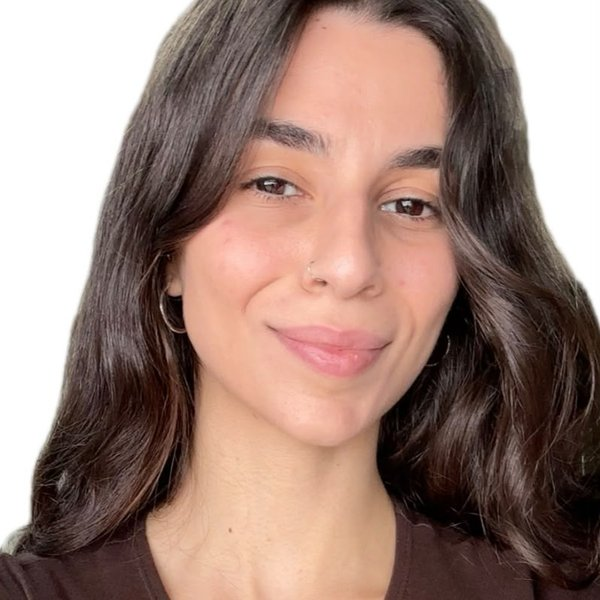
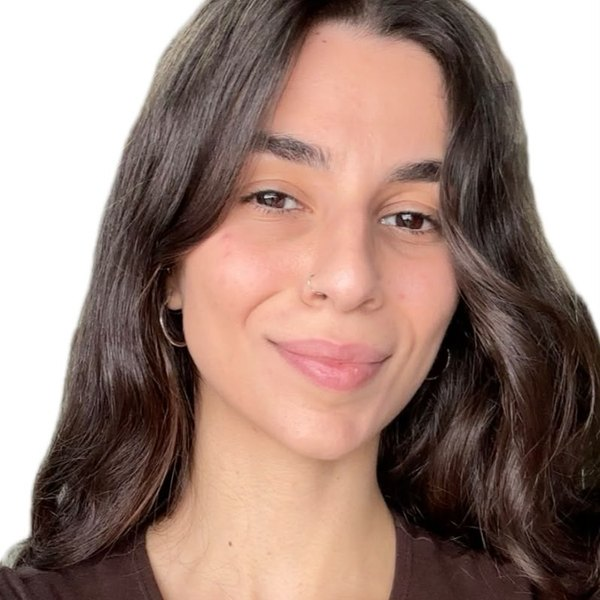
Recrop portraits, and turn Former Students into Interns
- Recrop Ofir, Dima and Maysam with face detection so the head is centred
  and nothing is cut, replacing the fixed-offset square crops. Ofir and Dima
  now come from local files instead of the WordPress site.
- Mahmoud is a current intern on the NEMO consortium project, not a former
  student: moved, retitled, and given a locally cropped portrait.
- Add Roman Muchnyk, intern on NEMO. No photo available yet, so his card
  carries initials in the avatar.
- Rename the Former Students section (and its stylesheet selector) to
  Interns, since it now holds both of them.
- Search index: update Mahmoud, add Roman, and add Maysam and Premsagar,
  who had been missing since they were added to the page.

Claude-Session: https://claude.ai/code/session_0158FYh1hgJmxL4cxLKjhWgB

diff --git a/assets/js/main.js b/assets/js/main.js
@@ -483,9 +483,10 @@ const createStaticSearchChunks = () => {
       pageTitle: 'People',
       title: 'People',
       text: `
-        Meet the AMSG Team. Principal investigator, research staff, current students, former students.
+        Meet the AMSG Team. Principal investigator, research staff, current students, interns.
         Nicolas Wainstein, Ilana Zilberger, Michael Sotman, Doron Orenstein, Jeries Mattar, Dima Saleh,
-        Sharon Ponarovsky, Yousef Safadi, Ofir Glick, Yinon Geva, Daniel Komenetsky, Mahmoud Mahajna.
+        Sharon Ponarovsky, Yousef Safadi, Ofir Glick, Yinon Geva, Daniel Komenetsky, Maysam Simaan,
+        Premsagar Dhote, Mahmoud Mahajna, Roman Muchnyk.
       `,
       kind: 'page'
     },
@@ -570,7 +571,28 @@ const createStaticSearchChunks = () => {
       pageHref: 'people.html',
       pageTitle: 'People',
       title: 'Mahmoud Mahajna',
-      text: 'Graduate Student. Embedded systems, neuromorphic hardware, and integrated circuits.',
+      text: 'Intern. NEMO consortium project; embedded systems, neuromorphic hardware, and integrated circuits.',
+      kind: 'detail'
+    },
+    {
+      pageHref: 'people.html',
+      pageTitle: 'People',
+      title: 'Roman Muchnyk',
+      text: 'Intern. NEMO consortium project.',
+      kind: 'detail'
+    },
+    {
+      pageHref: 'people.html',
+      pageTitle: 'People',
+      title: 'Maysam Simaan',
+      text: 'Graduate Student. Cryogenic hardware and time-domain in-memory computing.',
+      kind: 'detail'
+    },
+    {
+      pageHref: 'people.html',
+      pageTitle: 'People',
+      title: 'Premsagar Dhote',
+      text: 'Exploratory Research Student. FeFET-based non-volatile memories and high-speed interconnects.',
       kind: 'detail'
     },
     {
@@ -1339,7 +1361,7 @@ if (teamCarousel) {
     {
       name: 'Dima Saleh',
       role: 'Graduate Student',
-      image: 'https://ams.net.technion.ac.il/files/2024/09/dima-768x768.jpg'
+      image: 'assets/img/people/dima_web.jpg'
     },
     {
       name: 'Sharon Ponarovsky',
@@ -1354,7 +1376,7 @@ if (teamCarousel) {
     {
       name: 'Ofir Glick',
       role: 'Graduate Student',
-      image: 'https://ams.net.technion.ac.il/files/2025/03/%D7%AA%D7%9E%D7%95%D7%A0%D7%AA-%D7%A4%D7%A0%D7%99%D7%9D-581x1024.png'
+      image: 'assets/img/people/ofir_web.jpg'
     },
     {
       name: 'Yinon Geva',
@@ -1716,7 +1738,7 @@ if (personModal) {
     ofir: {
       name: 'Ofir Glick',
       role: 'Graduate Researcher',
-      img: 'https://ams.net.technion.ac.il/files/2025/03/%D7%AA%D7%9E%D7%95%D7%A0%D7%AA-%D7%A4%D7%A0%D7%99%D7%9D-581x1024.png',
+      img: 'assets/img/people/ofir_web.jpg',
       bio: 'Ofir received his B.Sc. in Electrical Engineering from the Technion in 2024 and is currently an M.Sc. student working with Prof. Ariel Cohen and Dr. Nicolás Wainstein. He was previously an analog circuit designer at Cisco focusing on high-speed, low-power ADCs with digital calibration and mixed-signal verification.',
       contact: {
         Email: 'ofirglick@campus.technion.ac.il',
@@ -1773,9 +1795,9 @@ if (personModal) {
     },
     mahmoud: {
       name: 'Mahmoud Mahajna',
-      role: 'Graduate Researcher',
-      img: 'https://ams.net.technion.ac.il/files/2025/03/pic.jpeg',
-      bio: 'Mahmoud is a M.Sc research student from the University of Politecnico di Torino in Italy, majoring in Electronics Engineering - Embedded Systems. He received his B.Sc degree in Electronics and Communication Engineering from Politecnico di Torino. He conducted a 6-month internship at The National Metrology Institute of Italy (INRiM) on the topic of Superconducting Single Photon Detectors. His current research interests are Computer Architecture, Neuromorphic Computing, Integrated Circuits and VLSI Systems.',
+      role: 'Intern',
+      img: 'assets/img/people/mahmoud_web.jpg',
+      bio: 'Mahmoud is a M.Sc research student from the University of Politecnico di Torino in Italy, majoring in Electronics Engineering - Embedded Systems. He received his B.Sc degree in Electronics and Communication Engineering from Politecnico di Torino. He conducted a 6-month internship at The National Metrology Institute of Italy (INRiM) on the topic of Superconducting Single Photon Detectors. His current research interests are Computer Architecture, Neuromorphic Computing, Integrated Circuits and VLSI Systems. He is currently an intern at AMSG, working on the NEMO consortium project.',
       contact: {
         Email: 'm-mahmoud@campus.technion.ac.il',
         Office: '406 Zisapel, Andrew and Erna Faculty of Electrical and Computer Engineering, Technion',
@@ -1790,10 +1812,28 @@ if (personModal) {
         'Bridges embedded systems research with circuit design' 
       ]
     },
+    roman: {
+      name: 'Roman Muchnyk',
+      role: 'Intern',
+      img: 'assets/img/logo_asmg_2025.png',
+      bio: 'Roman is an intern at AMSG, working on the NEMO consortium project.',
+      contact: {
+        Email: '',
+        Office: '406 Zisapel, Andrew and Erna Faculty of Electrical and Computer Engineering, Technion',
+        Phone: ''
+      },
+      links: {
+        scholar: 'https://scholar.google.com',
+        linkedin: 'https://www.linkedin.com'
+      },
+      details: [
+        'Works on the NEMO consortium project'
+      ]
+    },
     dima: {
       name: 'Dima Ali Saleh',
       role: 'Graduate Researcher',
-      img: 'https://ams.net.technion.ac.il/files/2024/09/dima-768x768.jpg',
+      img: 'assets/img/people/dima_web.jpg',
       bio: 'Dima received her B.Sc. in Electrical Engineering from the Technion and is currently a graduate student at AMSG, specializing in time-domain in-memory computing (TD‑IMC). Her research interests include advancements in mixed-signal integrated circuit design.',
       contact: {
         Email: 'dima.al@campus.technion.ac.il',

diff --git a/people.html b/people.html
@@ -105,10 +105,10 @@
         <h2 class="section-title reveal">Current Students</h2>
         <div class="grid grid-3">
           <article class="card people-card reveal delay-1" data-person-id="jeries"><div class="avatar"><img src="https://ams.net.technion.ac.il/files/2023/06/jeries_photo-1701x2048.jpg" alt="Jeries Mattar" loading="lazy" /></div><h3>Jeries Mattar</h3><div class="role">PhD Student</div><p class="person-meta">AI hardware and time-domain in-memory computing.</p></article>
-          <article class="card people-card reveal delay-2" data-person-id="dima"><div class="avatar"><img src="https://ams.net.technion.ac.il/files/2024/09/dima-768x768.jpg" alt="Dima Saleh" loading="lazy" /></div><h3>Dima Saleh</h3><div class="role">Graduate Student</div><p class="person-meta">AI hardware and time-domain in-memory computing</p></article>
+          <article class="card people-card reveal delay-2" data-person-id="dima"><div class="avatar"><img src="assets/img/people/dima_web.jpg" alt="Dima Saleh" loading="lazy" /></div><h3>Dima Saleh</h3><div class="role">Graduate Student</div><p class="person-meta">AI hardware and time-domain in-memory computing</p></article>
           <article class="card people-card reveal delay-3" data-person-id="sharon"><div class="avatar"><img src="https://ams.net.technion.ac.il/files/2025/06/Photo673-2048x2048.jpg" alt="Sharon Ponarovsky" loading="lazy" /></div><h3>Sharon Ponarovsky</h3><div class="role">Graduate Student</div><p class="person-meta">Neuromorphic computing.</p></article>
           <article class="card people-card reveal delay-4" data-person-id="yousef"><div class="avatar"><img src="https://ams.net.technion.ac.il/files/2025/03/yousef.jpg" alt="Yousef Safadi" loading="lazy" /></div><h3>Yousef Safadi</h3><div class="role">Graduate Student</div><p class="person-meta">Ultra-dense and energy-efficient die-to-die links.</p></article>
-          <article class="card people-card reveal delay-5" data-person-id="ofir"><div class="avatar"><img src="https://ams.net.technion.ac.il/files/2025/03/תמונת-פנים-581x1024.png" alt="Ofir Glick" loading="lazy" /></div><h3>Ofir Glick</h3><div class="role">Graduate Student</div><p class="person-meta">High-speed, low-power ADCs.</p></article>   
+          <article class="card people-card reveal delay-5" data-person-id="ofir"><div class="avatar"><img src="assets/img/people/ofir_web.jpg" alt="Ofir Glick" loading="lazy" /></div><h3>Ofir Glick</h3><div class="role">Graduate Student</div><p class="person-meta">High-speed, low-power ADCs.</p></article>   
           <article class="card people-card reveal delay-6" data-person-id="yinon"><div class="avatar"><img src="https://ams.net.technion.ac.il/files/2026/01/yinon.jpg" alt="Yinon Geva" loading="lazy" /></div><h3>Yinon Geva</h3><div class="role">Graduate Student</div><p class="person-meta"> Ultra-dense and energy-efficient die-to-die links.</p></article>        
           <article class="card people-card reveal delay-7" data-person-id="daniel"><div class="avatar"><img src="https://ams.net.technion.ac.il/files/2026/03/Daniel-768x615.jpeg" alt="Daniel Komenetsky" loading="lazy" /></div><h3>Daniel Komenetsky</h3><div class="role">Graduate Student</div><p class="person-meta">High-speed, low-power ADCs.</p></article>
           <article class="card people-card reveal delay-8" data-person-id="maysam"><div class="avatar"><img src="assets/img/people/maysam_web.jpg" alt="Maysam Simaan" loading="lazy" /></div><h3>Maysam Simaan</h3><div class="role">Graduate Student</div><p class="person-meta">Cryogenic hardware and time-domain in-memory computing.</p></article>
@@ -117,11 +117,12 @@
       </div>
     </section>
 
-    <section class="section compact people-section people-section--alumni">
+    <section class="section compact people-section people-section--interns">
       <div class="container">
-        <h2 class="section-title reveal">Former Students</h2>
-        <div class="grid grid-3"> 
-          <article class="card people-card reveal delay-8" data-person-id="mahmoud"><div class="avatar"><img src="https://ams.net.technion.ac.il/files/2025/03/pic.jpeg" alt="Mahmoud Mahajna" loading="lazy" /></div><h3>Mahmoud Mahajna</h3><div class="role">Graduate Student</div><p class="person-meta">Embedded systems, neuromorphic hardware, and ICs.</p></article>
+        <h2 class="section-title reveal">Interns</h2>
+        <div class="grid grid-3">
+          <article class="card people-card reveal delay-1" data-person-id="mahmoud"><div class="avatar"><img src="assets/img/people/mahmoud_web.jpg" alt="Mahmoud Mahajna" loading="lazy" /></div><h3>Mahmoud Mahajna</h3><div class="role">Intern</div><p class="person-meta">NEMO consortium project; neuromorphic hardware and ICs.</p></article>
+          <article class="card people-card reveal delay-2" data-person-id="roman"><div class="avatar">RM</div><h3>Roman Muchnyk</h3><div class="role">Intern</div><p class="person-meta">NEMO consortium project.</p></article>
         </div>
       </div>
     </section>

diff --git a/assets/css/styles.css b/assets/css/styles.css
@@ -956,7 +956,7 @@ body.a11y-high-contrast .home-section--cta {
     linear-gradient(180deg, rgba(116,183,255,0.07), rgba(137,240,215,0.03)),
     rgba(255,255,255,0.16);
 }
-.people-section--alumni {
+.people-section--interns {
   background:
     linear-gradient(180deg, rgba(17,17,17,0.05), rgba(17,17,17,0.02)),
     rgba(255,255,255,0.06);
@@ -977,7 +977,7 @@ body.a11y-high-contrast .people-section--students {
     linear-gradient(180deg, rgba(137,240,215,0.12), rgba(116,183,255,0.06)),
     rgba(255,255,255,0.03);
 }
-body.a11y-high-contrast .people-section--alumni {
+body.a11y-high-contrast .people-section--interns {
   background:
     linear-gradient(180deg, rgba(255,255,255,0.08), rgba(255,255,255,0.03)),
     rgba(255,255,255,0.015);
